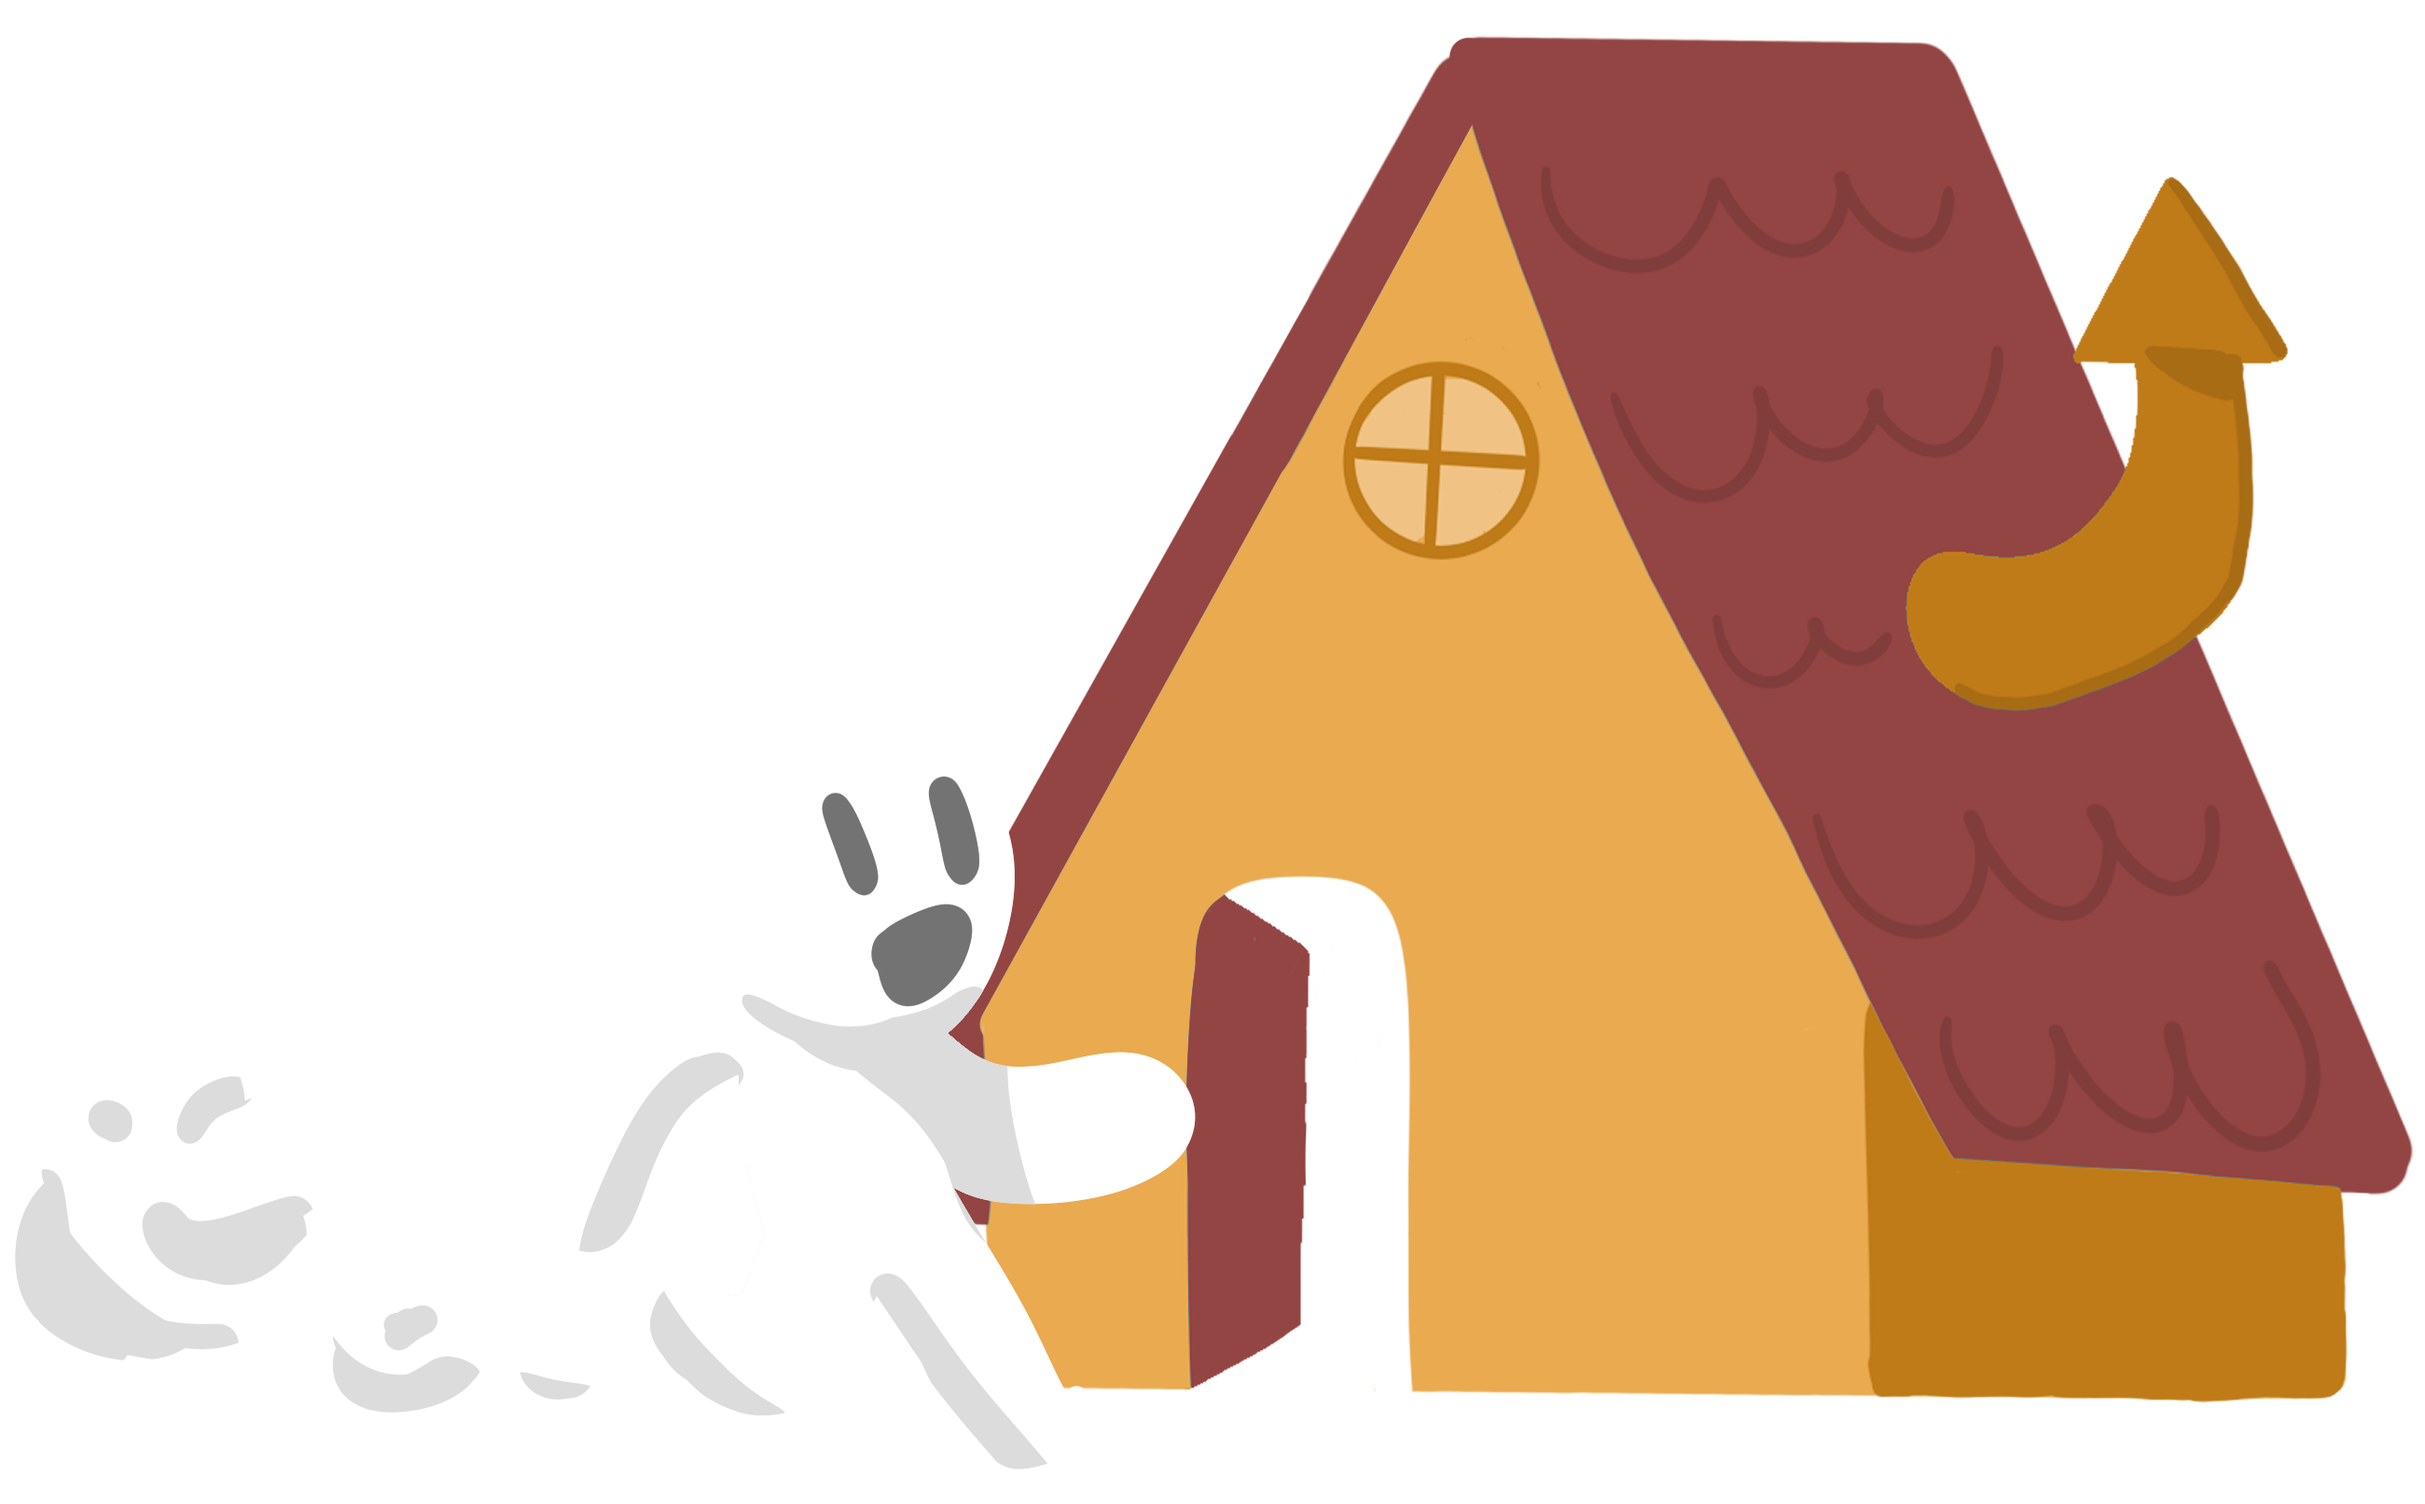
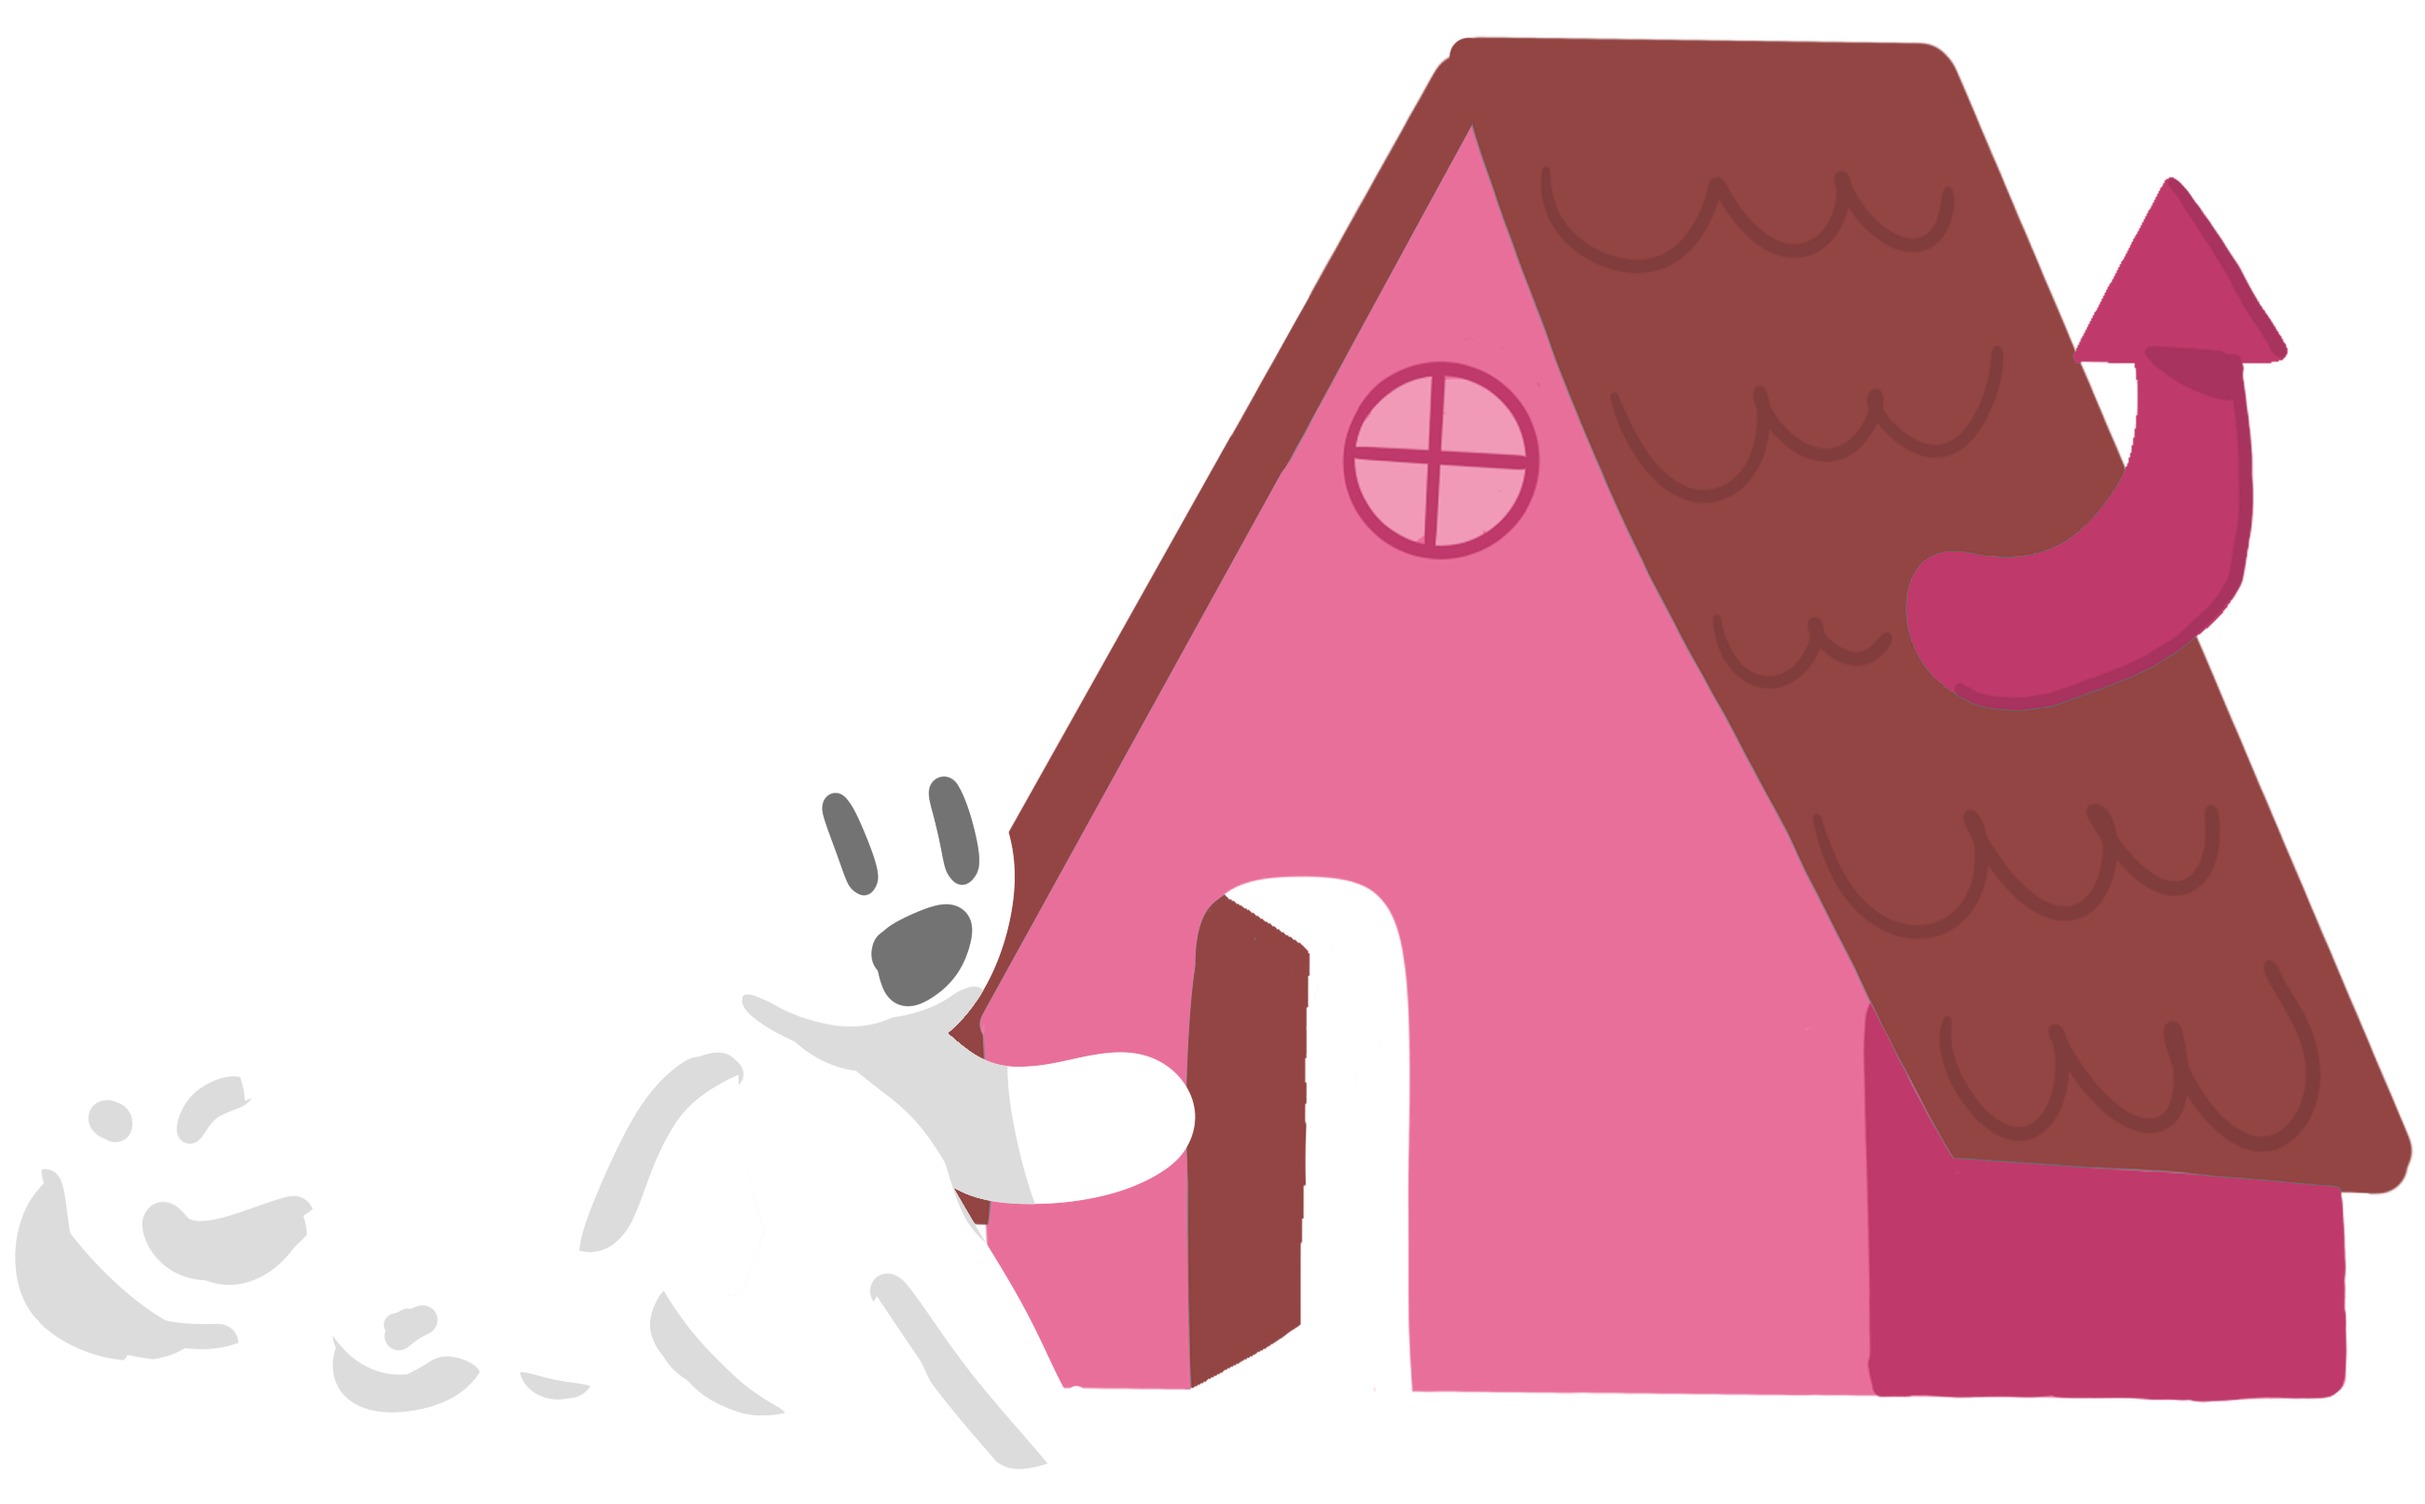
td

Changed region(s): [[0.405, 0.093, 0.9658, 0.9299], [0.7788, 0.124, 0.9658, 0.496], [0.405, 0.775, 0.4985, 0.9299]]

diff --git a/app/pages/chat.vue b/app/pages/chat.vue
@@ -6,20 +6,20 @@ const currentUser = ref<User | null>(null)
 const novaMensagem = ref('')
 const supabase = useSupabaseClient()
 
-const scrollRef = ref<{ viewportRef: HTMLElement } | null>(null)
+const scrollArea = useTemplateRef('scrollArea')
 
-// Função para rolar para o final das mensagens
-const scrollToBottom = () => {
-  if (scrollRef.value) {
-    // eslint-disable-next-line @typescript-eslint/no-explicit-any
-    const viewport = (scrollRef.value as any).viewportRef || (scrollRef.value as any).$el?.querySelector('[data-radix-scroll-area-viewport]')
-    if (viewport) {
-      viewport.scrollTop = viewport.scrollHeight
-    }
+function scrollToBottom() {
+  const viewport = scrollArea.value?.$el?.querySelector('[data-radix-scroll-area-viewport]')
+    ?? scrollArea.value?.$el
+
+  if (viewport) {
+    viewport.scrollTo({
+      top: viewport.scrollHeight,
+      behavior: 'smooth'
+    })
   }
 }
 
-// Inicializa o chat e busca mensagens existentes
 const inicializaChat = async () => {
   // Pega o usuário da sessão logada no Supabase
   const { data: { session } } = await supabase.auth.getSession()
@@ -37,7 +37,6 @@ const inicializaChat = async () => {
 
   if (data && !error) {
     listaMensagens.value = data as Mensagem[]
-    nextTick(scrollToBottom)
   }
 }
 
@@ -64,9 +63,9 @@ const enviarMensagem = async () => {
   }
 }
 
-onMounted(() => {
-  inicializaChat()
-
+onMounted(async () => {
+  await inicializaChat()
+  scrollToBottom()
   // Configura o Realtime para ouvir novas mensagens
   const channel = supabase
     .channel('mensagens_realtime')
@@ -96,17 +95,17 @@ onMounted(() => {
 <template>
   <div class="flex flex-col items-center justify-center min-h-0 h-[calc(100vh-64px)] w-full overflow-hidden">
     <UScrollArea
-      ref="scrollRef"
+      ref="scrollArea"
       class="w-full sm:w-[75%] lg:w-[60%] flex-1 px-4 pt-4"
     >
-      <div class="flex flex-col pb-4">
+      <div class="flex flex-col pb-1">
         <div
           v-for="item in listaMensagens"
           :key="item.id"
           :class="[
             'rounded-2xl p-3 m-2 gap-0 max-w-[80%] flex flex-col shadow-sm',
             item.user_id === currentUser?.id
-              ? 'self-end rounded-tr-none bg-primary-600 text-white'
+              ? 'self-end rounded-tr-none bg-primary-400/90 text-white'
               : 'self-start rounded-tl-none bg-neutral-500/20 dark:bg-neutral-800/40'
           ]"
         >

diff --git a/app/pages/login.vue b/app/pages/login.vue
@@ -1,17 +1,36 @@
 <script setup lang="ts">
 const supabase = useSupabaseClient()
 const name = ref('')
+const password = ref('')
 const login = async () => {
-  const { error } = await supabase.auth.signInAnonymously({
-    options: {
-      data: {
-        display_name: name.value
-      }
-    }
+  const { error } = await supabase.auth.signInWithPassword({
+    email: `${name.value.toLowerCase().replace(/\s+/g, '')}@homechat.com`,
+    password: password.value
   })
   if (error) {
-    console.error('Erro no Login Anônimo:', error)
-    alert('Falha ao entrar no chat. Verifique se ativou o Login Anônimo no Supabase.')
+    console.error('Erro no Login:', error)
+    const { error: error2 } = await supabase.auth.signUp({
+      email: `${name.value.toLowerCase().replace(/\s+/g, '')}@homechat.com`,
+      password: password.value,
+      options: {
+        data: {
+          display_name: name.value
+        }
+      }
+    })
+    if (error2) {
+      alert('Erro no Cadastro: ' + error2.message)
+      return
+    }
+    const { error: error3 } = await supabase.auth.signInWithPassword({
+      email: `${name.value.toLowerCase().replace(/\s+/g, '')}@homechat.com`,
+      password: password.value
+    })
+    if (error3) {
+      alert('Erro no Login: ' + error3.message)
+      return
+    }
+    navigateTo('/chat')
     return
   }
 
@@ -44,6 +63,15 @@ const login = async () => {
           autofocus
           icon="solar:user-bold-duotone"
           placeholder="Insira seu usuário"
+        />
+        <UInput
+          v-model="password"
+          required
+          size="lg"
+          name="senha"
+          type="password"
+          icon="solar:lock-bold-duotone"
+          placeholder="Insira sua senha"
         />
         <UButton
           class="rounded-full justify-center"

diff --git a/app/app.vue b/app/app.vue
@@ -4,23 +4,23 @@ useHead({
     { name: 'viewport', content: 'width=device-width, initial-scale=1' }
   ],
   link: [
-    { rel: 'icon', href: '/favicon.png' }
+    { rel: 'icon', href: '/favicon.ico' }
   ],
   htmlAttrs: {
     lang: 'pt-br'
   }
 })
 
-const title = 'Home Chat School'
-const description = 'O lar da conversa na sua escola!'
+const title = 'Home Chat'
+const description = 'O lar da conversa!'
 
 useSeoMeta({
   title,
   description,
   ogTitle: title,
   ogDescription: description,
-  ogImage: '/favicon.png',
-  twitterImage: '/favicon.png',
+  ogImage: '/favicon.ico',
+  twitterImage: '/favicon.ico',
   twitterCard: 'summary_large_image'
 })
 </script>
@@ -36,8 +36,8 @@ useSeoMeta({
           to="/"
         >
           <LogoTexto
-            titulo="Home Chat School"
-            descricao="Mais um lar da conversa"
+            titulo="Home Chat"
+            descricao="O lar da conversa!"
             fota="favicon.png"
           />
         </NuxtLink>

diff --git a/app/app.config.ts b/app/app.config.ts
@@ -1,7 +1,7 @@
 export default defineAppConfig({
   ui: {
     colors: {
-      primary: 'amber',
+      primary: 'rose',
       neutral: 'mauve'
     },
     darkMode: true
